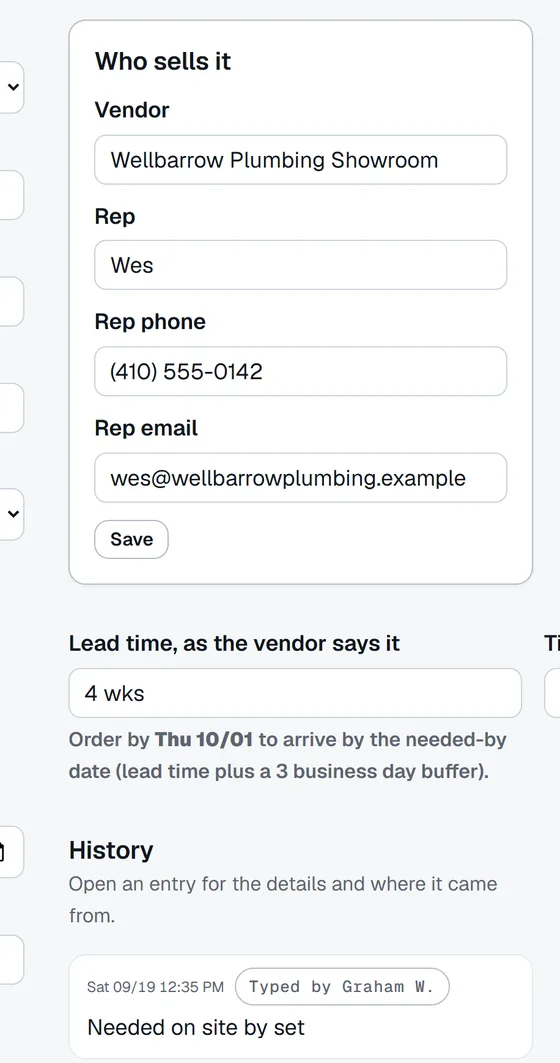
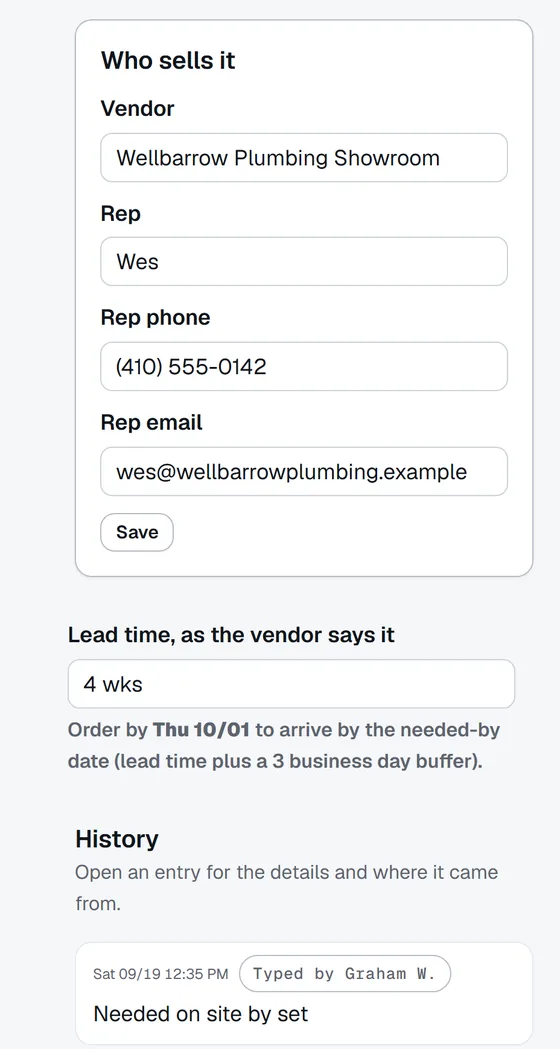
Material Monitor page: tour step 3 phone crop without slivers of the next column

diff --git a/materialmonitor.html b/materialmonitor.html
@@ -884,15 +884,15 @@ body.mm .bp-grid {
        pin 1  vendor_and_rep: pin at 14.08%, arrow ends at 69.00% 14.08%
        pin 2  order_by_date: pin at 82.80%, arrow ends at 3.54% 84.20%
        pin 3  first_history_entry: pin at 90.01%, arrow ends at 67.32% 88.62%
-     narrow: console/full/material.png, x 872 to 1330, y 202 to 688 (458 x 486) then console/full/material.png, x 76 to 534, y 733 to 889 (458 x 156) then console/full/material.png, x 872 to 1330, y 685 to 884 (458 x 199)
-       pin 1  vendor_and_rep: pin at 28.01%, arrow ends at 16.04% 28.01%
-       pin 2  order_by_date: pin at 71.09%, arrow ends at 11.46% 71.09%
-       pin 3  first_history_entry: pin at 94.73%, arrow ends at 11.46% 94.73%
+     narrow: console/full/material.png, x 900 to 1330, y 202 to 688, 34px of ground added on the left (464 x 486) then console/full/material.png, x 96 to 513, y 733 to 889, 20px of ground added on the left (437 x 156) then console/full/material.png, x 900 to 1330, y 685 to 884, 34px of ground added on the left (464 x 199)
+       pin 1  vendor_and_rep: pin at 28.01%, arrow ends at 17.12% 28.01%
+       pin 2  order_by_date: pin at 71.09%, arrow ends at 11.30% 71.09%
+       pin 3  first_history_entry: pin at 94.73%, arrow ends at 12.59% 94.73%
      To move a pin or a crop, change it in the script and run it again; do not edit the numbers here. -->
 <div class="shot two" style="--y1:14.077%;--y2:82.800%;--y3:90.014%;--ratio:0.6250">
-<div class="pic"><picture><source media="(max-width: 699px)" srcset="assets/screens/materialmonitor/mm-tour-material-n-560.webp 560w, assets/screens/materialmonitor/mm-tour-material-n-916.webp 916w" sizes="100vw" width="560" height="1063"><img class="shot-img" src="assets/screens/materialmonitor/mm-tour-material-980.webp" srcset="assets/screens/materialmonitor/mm-tour-material-980.webp 980w, assets/screens/materialmonitor/mm-tour-material-1960.webp 1960w" sizes="(min-width: 1320px) calc(50vw + 256px), (min-width: 1100px) calc(100vw - 404px), (min-width: 700px) min(960px, calc(100vw - 48px)), 100vw" width="980" height="612" loading="lazy" decoding="async" alt="A material's page: its status and dates with the order-by date, the vendor and the rep with an email address and a phone number, and the history of what changed."></picture>
+<div class="pic"><picture><source media="(max-width: 699px)" srcset="assets/screens/materialmonitor/mm-tour-material-n-560.webp 560w, assets/screens/materialmonitor/mm-tour-material-n-912.webp 912w" sizes="100vw" width="560" height="1049"><img class="shot-img" src="assets/screens/materialmonitor/mm-tour-material-980.webp" srcset="assets/screens/materialmonitor/mm-tour-material-980.webp 980w, assets/screens/materialmonitor/mm-tour-material-1960.webp 1960w" sizes="(min-width: 1320px) calc(50vw + 256px), (min-width: 1100px) calc(100vw - 404px), (min-width: 700px) min(960px, calc(100vw - 48px)), 100vw" width="980" height="612" loading="lazy" decoding="async" alt="A material's page: its status and dates with the order-by date, the vendor and the rep with an email address and a phone number, and the history of what changed."></picture>
 <svg class="arrows aw" viewBox="0 0 1248.0 780.0" preserveAspectRatio="none" stroke-width="1.92" aria-hidden="true" focusable="false"><g class="a a1"><polyline pathLength="1" points="-23.0,109.8 861.2,109.8"/><path d="M861.2,109.8 L849.7,115.7 L849.7,103.9 Z"/></g><g class="a a2"><polyline pathLength="1" points="-23.0,645.8 15.3,656.8 44.2,656.8"/><path d="M44.2,656.8 L32.7,662.6 L32.7,650.9 Z"/></g><g class="a a3"><polyline pathLength="1" points="-23.0,702.1 15.3,691.2 840.2,691.2"/><path d="M840.2,691.2 L828.7,697.1 L828.7,685.3 Z"/></g></svg>
-<svg class="arrows an" viewBox="0 0 458.0 869.0" preserveAspectRatio="none" stroke-width="1.76" aria-hidden="true" focusable="false"><g class="a a1"><polyline pathLength="1" points="21.1,243.5 73.5,243.5"/><path d="M73.5,243.5 L62.9,248.9 L62.9,238.0 Z"/></g><g class="a a2"><polyline pathLength="1" points="21.1,617.8 52.5,617.8"/><path d="M52.5,617.8 L41.9,623.2 L41.9,612.3 Z"/></g><g class="a a3"><polyline pathLength="1" points="21.1,823.2 52.5,823.2"/><path d="M52.5,823.2 L41.9,828.6 L41.9,817.8 Z"/></g></svg>
+<svg class="arrows an" viewBox="0 0 464.0 869.0" preserveAspectRatio="none" stroke-width="1.78" aria-hidden="true" focusable="false"><g class="a a1"><polyline pathLength="1" points="21.4,243.5 79.4,243.5"/><path d="M79.4,243.5 L68.7,248.9 L68.7,238.0 Z"/></g><g class="a a2"><polyline pathLength="1" points="21.4,617.8 52.4,617.8"/><path d="M52.4,617.8 L41.7,623.2 L41.7,612.3 Z"/></g><g class="a a3"><polyline pathLength="1" points="21.4,823.2 58.4,823.2"/><path d="M58.4,823.2 L47.7,828.7 L47.7,817.7 Z"/></g></svg>
 <span class="pin p1" style="--py:14.077%;--npy:28.015%" aria-hidden="true">1</span>
 <span class="pin p2" style="--py:82.800%;--npy:71.087%" aria-hidden="true">2</span>
 <span class="pin p3" style="--py:90.014%;--npy:94.730%" aria-hidden="true">3</span>
@@ -1169,7 +1169,7 @@ body.mm .bp-grid {
     <div class="container wide">
       <div class="section-head center reveal">
         <p class="label label-center">Built for</p>
-        <h2 class="section-headline"><span class="pg">For custom builders</span> <span class="pg">and remodelers.</span></h2>
+        <h2 class="section-headline"><span class="pg">For custom builders</span> <span class="pg">and&nbsp;remodelers.</span></h2>
         <p class="section-sub">Custom homes and&nbsp;complex renovations carry a&nbsp;long list of&nbsp;finish selections, and&nbsp;every one is an&nbsp;order somebody has to&nbsp;place, track and&nbsp;receive.</p>
       </div>
       <div class="mm-cards">
@@ -1241,7 +1241,7 @@ body.mm .bp-grid {
         <details><summary>Can my crew use it&nbsp;on&nbsp;site?</summary><p>Yes. The field app is the crew's half of the same list, on an iPhone: they receive deliveries, look up any material on any job and report problems to the office. The office invites them from the console, and they sign in with a six digit code sent to&nbsp;their&nbsp;email.</p></details>
         <details><summary>Whose inbox does&nbsp;it&nbsp;read?</summary><p>Only the ones your office connects or forwards from. Vendor mail usually comes into real people's inboxes, like the coordinator's, the project manager's, the estimator's or an in-house designer's. Some offices also have a shared one. You can connect several and give each one a name. It only reads. It never sends, replies, moves or deletes anything, and it only asks about a new sender when a message looks like an order, a shipment, a delivery or&nbsp;a&nbsp;quote.</p></details>
         <!-- BEFORE PROMOTION: the direct Google connection needs its Google client configured -->
-        <details><summary>Microsoft 365&nbsp;or&nbsp;Google?</summary><p>Both. Material Monitor works with Microsoft 365 and Google inboxes, by connecting the inbox or by forwarding from it to your own private Material Monitor&nbsp;address.</p></details>
+        <details><summary>Microsoft 365&nbsp;or&nbsp;Google?</summary><p>Both. Material Monitor works with Microsoft 365 and Google inboxes, by connecting the inbox or by forwarding from it to your own private Material&nbsp;Monitor&nbsp;address.</p></details>
         <details><summary>Does it email&nbsp;my&nbsp;vendors?</summary><p>Never on its own. When an order needs a word, it drafts the follow-up, one email per rep with every open item on it, and you send it from your own email in your own words. Your reps hear&nbsp;from&nbsp;you.</p></details>
         <details><summary>Does it track&nbsp;shipments?</summary><p>Yes. Once a material has a tracking number, Material Monitor checks it with the carrier each day and keeps the expected date current. If the carrier reports a problem, the material is flagged as delayed and the office hears about it. When the carrier says it was delivered, somebody still confirms it&nbsp;arrived.</p></details>
         <details><summary>What happens when it reads&nbsp;something&nbsp;wrong?</summary><p>You dismiss it and nothing changes. <!-- JOSH TO CONFIRM: For Josh item 1, what updates by itself. -->Two things update by themselves, and only on a material that already has a tracking number: a shipping notice in a connected inbox, which can set the tracking, the expected date and Shipped, and the carrier's own tracking, which can move the expected date or flag a delay. Everything else it reads becomes a suggestion with the vendor's sentence quoted beside it, and a person confirms or dismisses it. No email and no carrier can mark a&nbsp;material&nbsp;received.</p></details>

diff --git a/scripts/mm_site_images.py b/scripts/mm_site_images.py
@@ -29,7 +29,8 @@ page's CSS pixels: x0 to x1 across, y0 to y1 down (y1 can instead follow from
 an aspect ratio, so every tour picture has the same shape). Each edge is a
 number or (anchor, edge, offset), for example ("jobs_heading", "top", -20), so
 a re-shoot that moves things down the page still crops the same content.
-`nav: True` puts the console's navigation bar (which stays at the top of the
+`pad_left: N` adds N CSS pixels of the page's own ground on the left (for a
+crop that must start close to a neighbouring column). `nav: True` puts the console's navigation bar (which stays at the top of the
 screen when the page scrolls) above the crop, cut to the same width. A figure
 can have a "wide" crop and a "narrow" one; the narrow one is served under 700px
 through <picture>, with its own pin positions.
@@ -223,13 +224,13 @@ FIGURES = [
             # Phones: Who sells it from the right column, the lead time and order-by rows of the form,
             # then the History heading and first entry, in the order the pins are numbered.
             "narrow": {"stack": [
-                {"x0": 872, "x1": 1330, "y0": ("who_sells_it", "top", -16),
+                {"x0": 900, "x1": 1330, "pad_left": 34, "y0": ("who_sells_it", "top", -16),
                  "y1": ("who_sells_it", "bottom", 8)},
-                {"x0": 76, "x1": 534, "y0": ("lead_time", "top", -12),
+                {"x0": 96, "x1": ("needed_on_site_by", "left", -8), "pad_left": 20, "y0": ("lead_time", "top", -12),
                  "y1": ("order_by_date", "bottom", 12)},
-                {"x0": 872, "x1": 1330, "y0": ("history_heading", "top", -12),
+                {"x0": 900, "x1": 1330, "pad_left": 34, "y0": ("history_heading", "top", -12),
                  "y1": ("first_history_entry", "bottom", 3)}],
-                "display": 390, "widths": [560, 916]},
+                "display": 390, "widths": [560, 912]},
         },
         "narrow_pins": [("vendor_and_rep", "left"), ("order_by_date", "left"), ("first_history_entry", "left")],
     },
@@ -430,13 +431,23 @@ def crop_console(shots: Path, fig: dict, spec: dict) -> Frame:
         img.paste(full.crop((px(x0), 0, px(x1), px(top))), (0, 0))
     img.paste(full.crop((px(x0), px(y0), px(x1), px(y1))), (0, px(top)))
     bar = ", the console's bar kept" if top else ""
-    fr = Frame(img, scale, w, h, f"{full_rel}, x {x0} to {x1}, y {y0} to {y1}{bar} ({w} x {h})")
+    # pad_left: a strip of the page's own ground on the left, so a crop that must start close to a
+    # neighbouring column still leaves room for the pin gutter
+    pad = float(spec.get("pad_left", 0))
+    if pad:
+        ground = img.getpixel((1, img.height // 2))
+        padded = Image.new("RGB", (img.width + px(pad), img.height), ground)
+        padded.paste(img, (px(pad), 0))
+        img = padded
+        w += pad
+        bar += f", {pad:.0f}px of ground added on the left"
+    fr = Frame(img, scale, w, h, f"{full_rel}, x {x0} to {x1}, y {y0} to {y1}{bar} ({w:.0f} x {h})")
     for name, (ax, ay, aw, ah) in anchors.items():
         if ay + ah <= nav_h:
             if top:
-                fr.anchor[name] = (ax - x0, ay, aw, ah)
+                fr.anchor[name] = (ax - x0 + pad, ay, aw, ah)
         else:
-            fr.anchor[name] = (ax - x0, ay - y0 + top, aw, ah)
+            fr.anchor[name] = (ax - x0 + pad, ay - y0 + top, aw, ah)
     # Named fractions of the crop's height for the page's CSS (for example where the hero phone starts).
     for vname, edge in spec.get("vars", {}).items():
         fr.var[vname] = (resolve(edge, anchors, what) - y0 + top) / h
